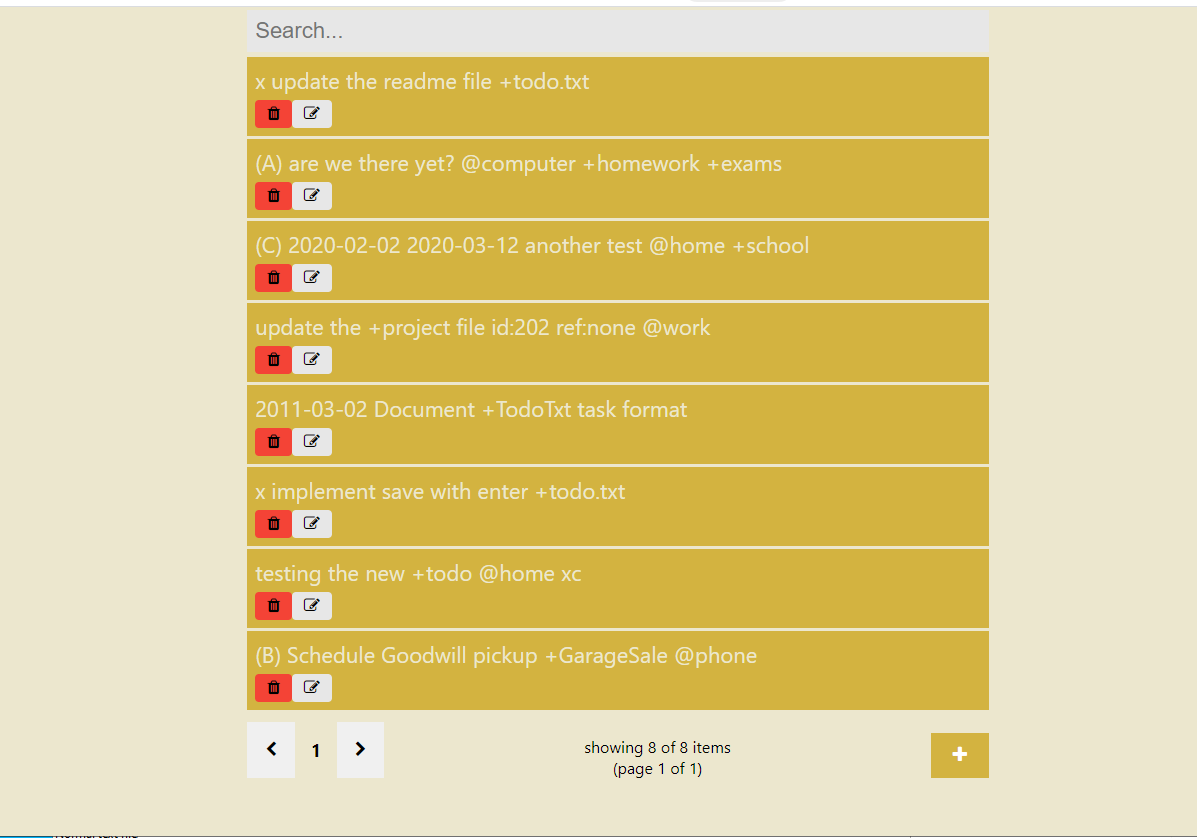
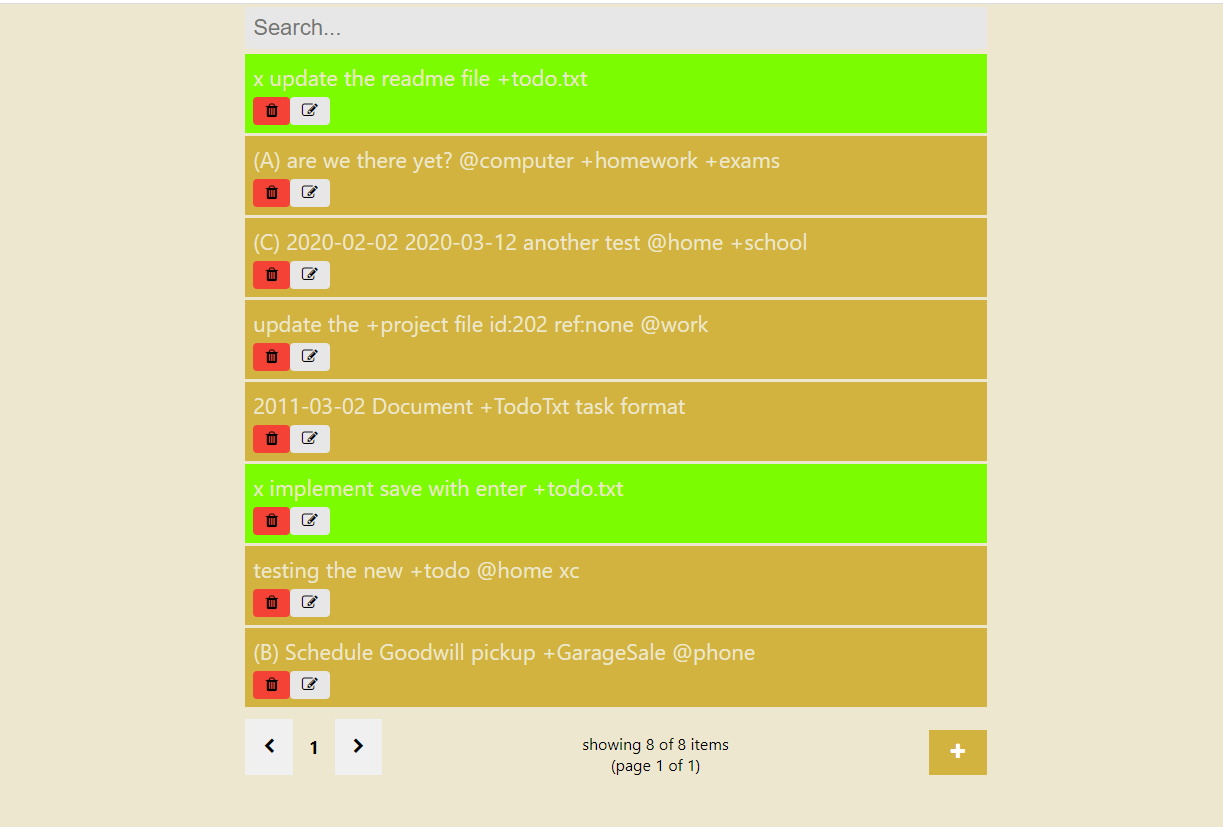
updated how completed tasks are shown

Changed region(s): [[0.0, 0.0, 1.0, 0.9371], [0.0, 0.9976, 1.0, 1.0]]

diff --git a/src/components/TodoList.js b/src/components/TodoList.js
@@ -48,13 +48,18 @@ export function TodoList({todos, todoToEdit, editTodo, saveTodo, deleteTodo}) {
         closeTodoEdit();
     }
 
+    const isDone = (todo = {}) => {
+        return todo.text && todo.text.startsWith('x');
+    };
+
     return (<div>
         {todos.map((todo) => {
             return (<div key={todo.id}>
                 {todoToEdit && todoToEdit.id === todo.id ? (<EditTodoPane todo={todoToEdit} onClose={closeTodoEdit}
                     onTodoSave={onTodoSave} />) :
                 (<TodoListItem 
-                    todo={todo} 
+                    todo={todo}
+                    isDone={isDone(todo)}
                     onTodoDelete={onTodoDelete}
                     onEditClick={onEditClick} />)}
             </div>);

diff --git a/src/components/TodoListItem.js b/src/components/TodoListItem.js
@@ -1,6 +1,6 @@
 import React from 'react';
 
-export default function TodoListItem({todo, onTodoDelete, onEditClick}) {
+export default function TodoListItem({todo, onTodoDelete, onEditClick, isDone = false}) {
 
     const deleteTodoHandler = () => {
         if (window.confirm('are you sure you want to delete')) {
@@ -12,7 +12,7 @@ export default function TodoListItem({todo, onTodoDelete, onEditClick}) {
         onEditClick(todo);
     }
 
-    return (<div className="todo-list-item">
+    return (<div className={"todo-list-item" + (isDone ? ' todo-is-done' : '')}>
         {todo.text}
         <div>
             <button className="btn-delete" onClick={deleteTodoHandler}>

diff --git a/src/components/components.styles.css b/src/components/components.styles.css
@@ -26,6 +26,10 @@
     font-size: 22px;
 }
 
+.todo-list-item.todo-is-done {
+    background-color: #7CFC00;
+}
+
 .footer {
     position: sticky;
     bottom: 3px;
